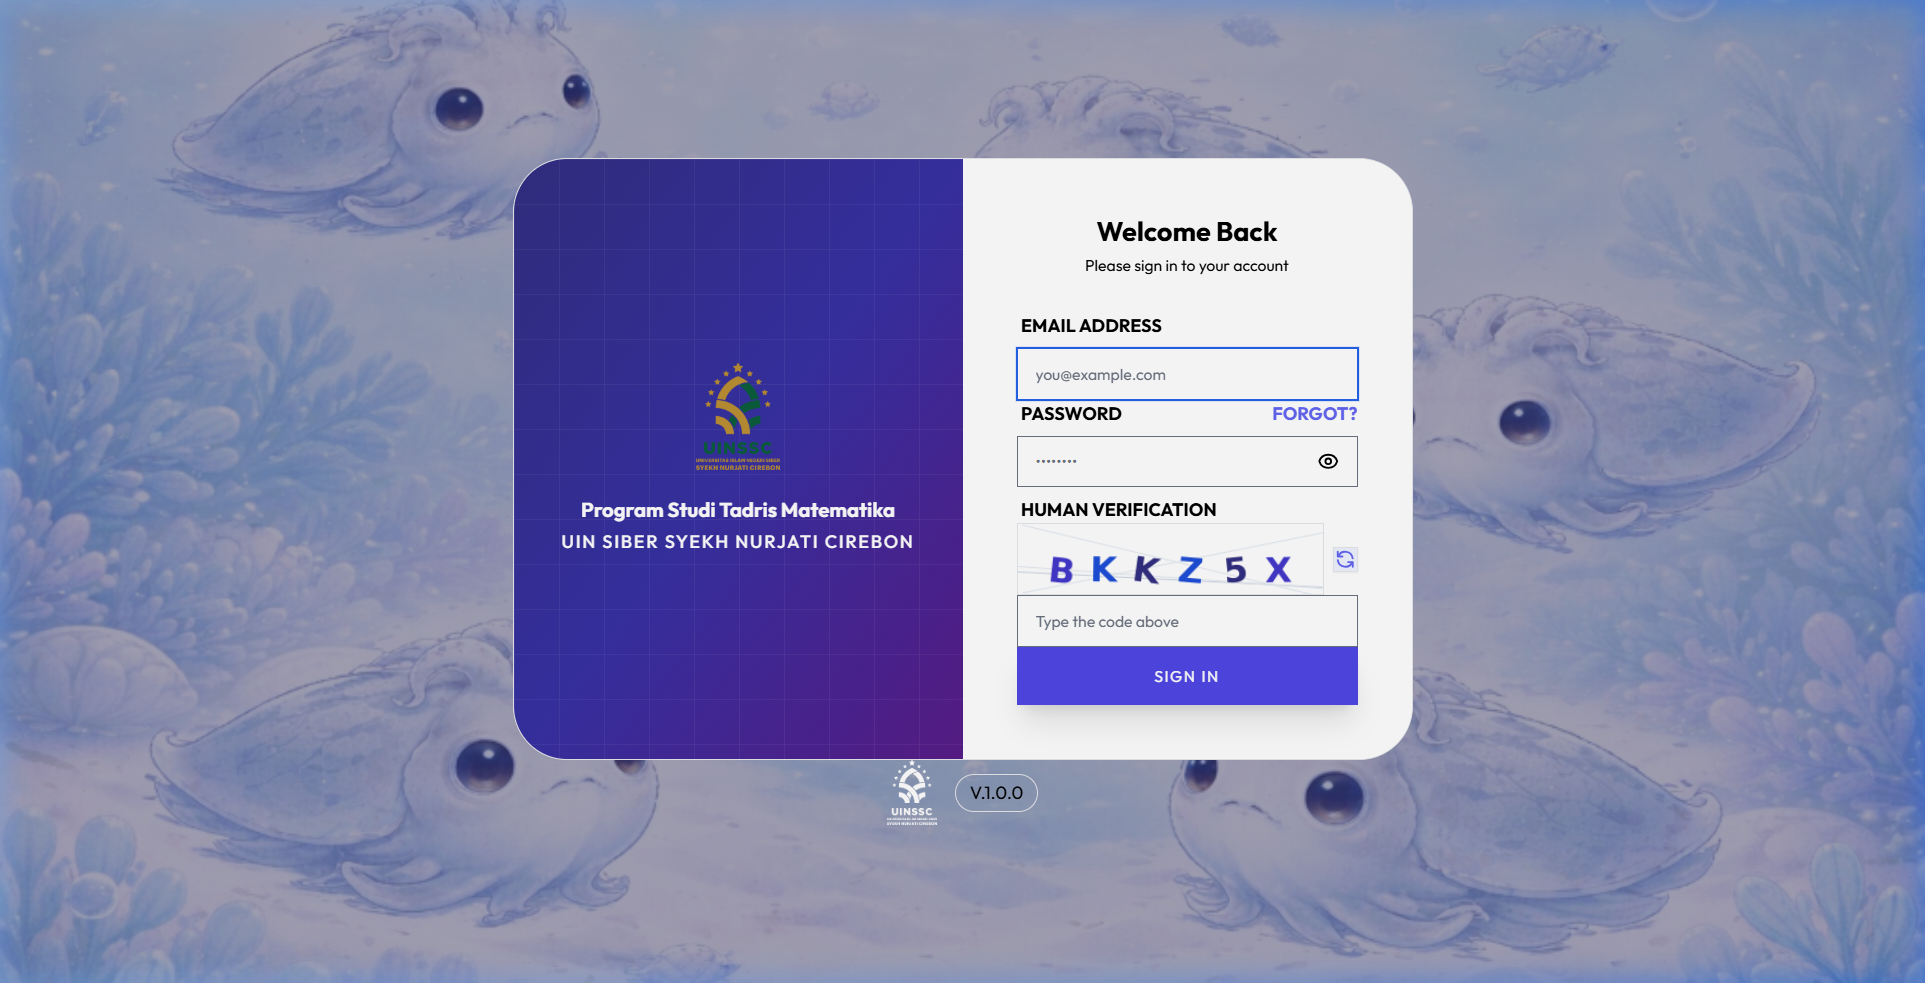
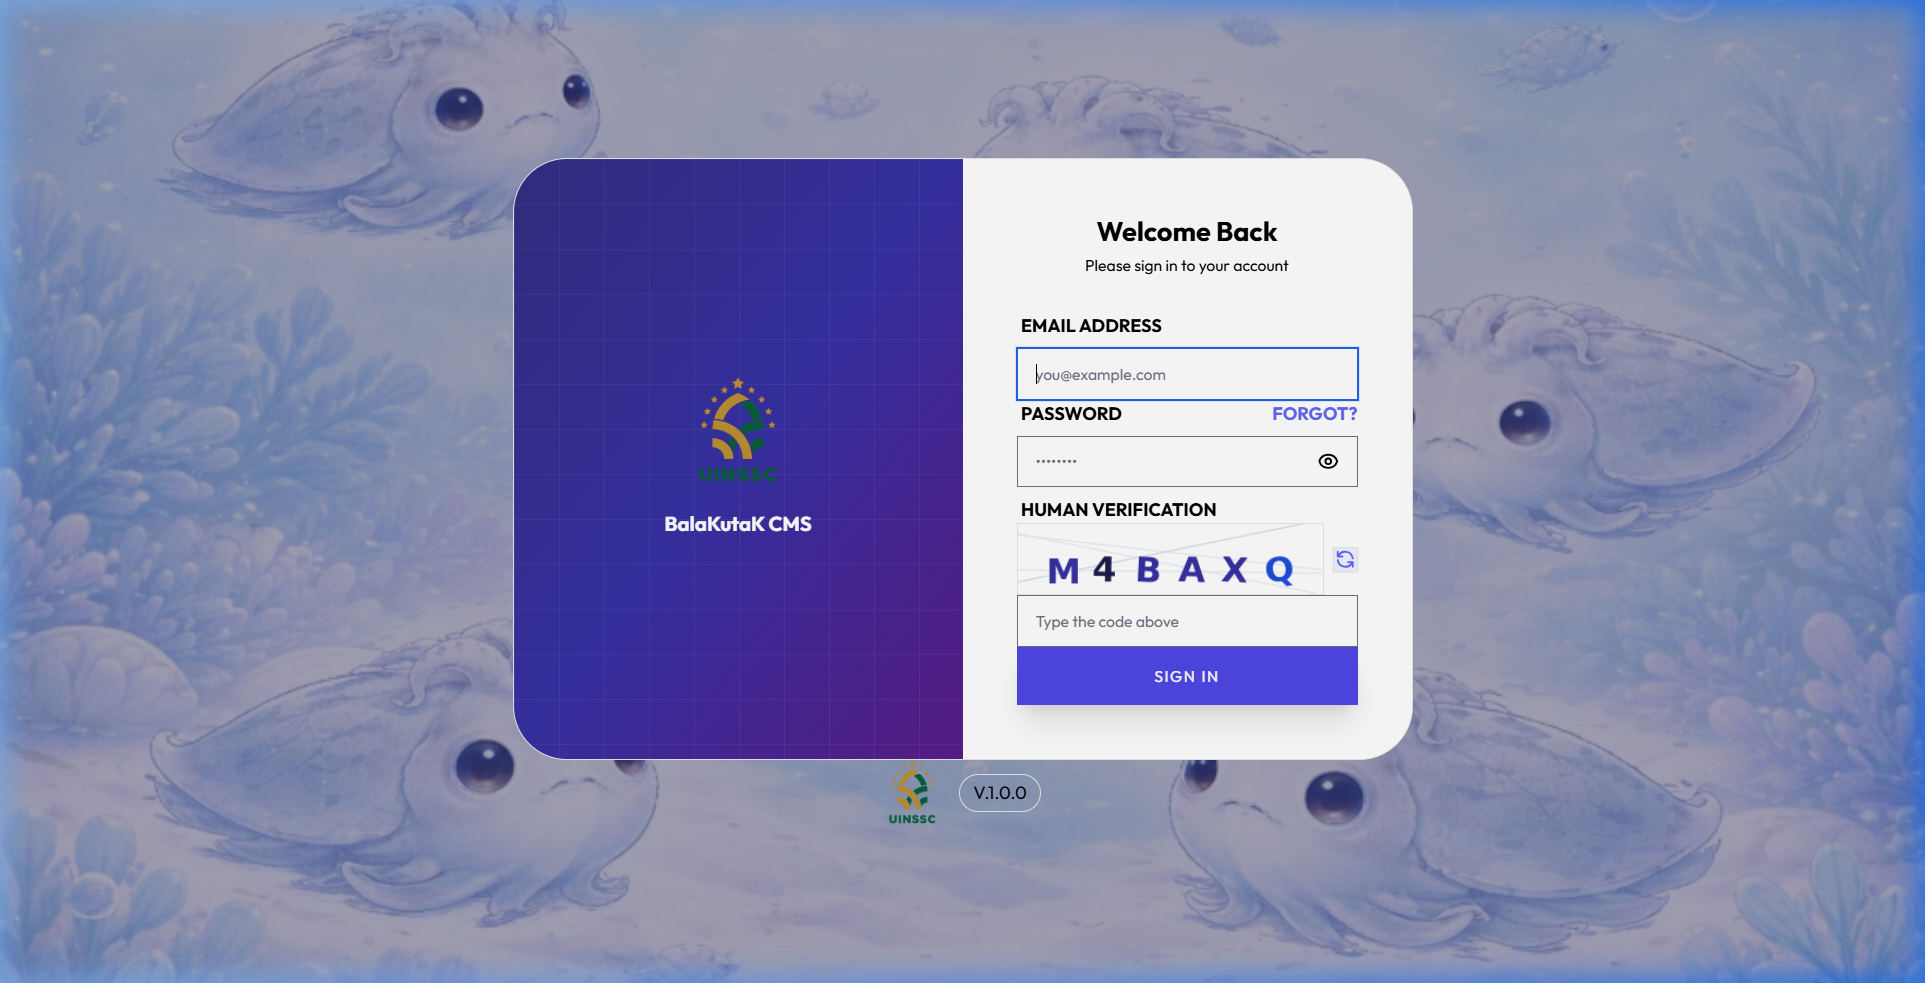
docs: added Menu Builder, Backup, and Theme features with screenshots

diff --git a/resources/views/admin/settings/group.blade.php b/resources/views/admin/settings/group.blade.php
@@ -66,8 +66,16 @@
                             <div class="form-group row">
                                 <label class="col-sm-3 col-form-label">Logo Website</label>
                                 <div class="col-sm-9">
-                                    @if(isset($settings['site_logo']))
-                                        <div class="mb-2"><img src="{{ asset('storage/' . $settings['site_logo']) }}" style="max-height: 50px;"></div>
+                                    @if(isset($settings['site_logo']) && !empty($settings['site_logo']))
+                                        <div class="mb-2 d-flex align-items-center">
+                                            <img src="{{ asset('storage/' . $settings['site_logo']) }}" style="max-height: 50px;" class="img-thumbnail mr-3">
+                                            <div class="custom-control custom-checkbox">
+                                                <input type="checkbox" name="delete_site_logo" class="custom-control-input" id="delete_site_logo" value="1">
+                                                <label class="custom-control-label text-danger small" for="delete_site_logo">
+                                                    <i class="fas fa-trash-alt mr-1"></i> Hapus Logo
+                                                </label>
+                                            </div>
+                                        </div>
                                     @endif
                                     <input type="file" name="site_logo" class="form-control-file">
                                 </div>
@@ -75,18 +83,36 @@
                             <div class="form-group row">
                                 <label class="col-sm-3 col-form-label">Logo Website (Versi Putih)</label>
                                 <div class="col-sm-9">
-                                    @if(isset($settings['site_logo_white']))
-                                        <div class="mb-2 bg-dark p-2 d-inline-block rounded"><img src="{{ asset('storage/' . $settings['site_logo_white']) }}" style="max-height: 50px;"></div>
+                                    @if(isset($settings['site_logo_white']) && !empty($settings['site_logo_white']))
+                                        <div class="mb-2 d-flex align-items-center">
+                                            <div class="bg-dark p-2 rounded mr-3 d-inline-block">
+                                                <img src="{{ asset('storage/' . $settings['site_logo_white']) }}" style="max-height: 50px;">
+                                            </div>
+                                            <div class="custom-control custom-checkbox">
+                                                <input type="checkbox" name="delete_site_logo_white" class="custom-control-input" id="delete_site_logo_white" value="1">
+                                                <label class="custom-control-label text-danger small" for="delete_site_logo_white">
+                                                    <i class="fas fa-trash-alt mr-1"></i> Hapus Logo Putih
+                                                </label>
+                                            </div>
+                                        </div>
                                     @endif
                                     <input type="file" name="site_logo_white" class="form-control-file">
-                                    <small class="text-muted">Gunakan untuk area dengan latar belakang gelap (seperti footer).</small>
+                                    <small class="text-muted d-block mt-1">Gunakan untuk area dengan latar belakang gelap (seperti footer).</small>
                                 </div>
                             </div>
                             <div class="form-group row">
                                 <label class="col-sm-3 col-form-label">Favicon</label>
                                 <div class="col-sm-9">
-                                    @if(isset($settings['site_favicon']))
-                                        <div class="mb-2"><img src="{{ asset('storage/' . $settings['site_favicon']) }}" style="max-height: 32px;"></div>
+                                    @if(isset($settings['site_favicon']) && !empty($settings['site_favicon']))
+                                        <div class="mb-2 d-flex align-items-center">
+                                            <img src="{{ asset('storage/' . $settings['site_favicon']) }}" style="max-height: 32px;" class="img-thumbnail mr-3">
+                                            <div class="custom-control custom-checkbox">
+                                                <input type="checkbox" name="delete_site_favicon" class="custom-control-input" id="delete_site_favicon" value="1">
+                                                <label class="custom-control-label text-danger small" for="delete_site_favicon">
+                                                    <i class="fas fa-trash-alt mr-1"></i> Hapus Favicon
+                                                </label>
+                                            </div>
+                                        </div>
                                     @endif
                                     <input type="file" name="site_favicon" class="form-control-file">
                                 </div>
@@ -117,9 +143,16 @@
                                 <label class="col-sm-3 col-form-label">Foto Ketua Institusi</label>
                                 <div class="col-sm-9">
                                     @if(!empty($settings['kaprodi_photo']))
-                                        <div class="mb-2">
-                                            <img src="{{ asset('storage/'.$settings['kaprodi_photo']) }}" alt="Foto Ketua" style="height:80px; width:80px; object-fit:cover; border-radius:50%; border:2px solid #dee2e6;">
-                                            <small class="d-block text-muted mt-1">Foto saat ini. Upload baru untuk mengganti.</small>
+                                        <div class="mb-2 d-flex align-items-center">
+                                            <div class="mr-3 text-center">
+                                                <img src="{{ asset('storage/'.$settings['kaprodi_photo']) }}" alt="Foto Ketua" style="height:80px; width:80px; object-fit:cover; border-radius:50%; border:2px solid #dee2e6;">
+                                            </div>
+                                            <div class="custom-control custom-checkbox">
+                                                <input type="checkbox" name="delete_kaprodi_photo" class="custom-control-input" id="delete_kaprodi_photo" value="1">
+                                                <label class="custom-control-label text-danger small" for="delete_kaprodi_photo">
+                                                    <i class="fas fa-trash-alt mr-1"></i> Hapus Foto
+                                                </label>
+                                            </div>
                                         </div>
                                     @endif
                                     <input type="file" name="kaprodi_photo" class="form-control-file" accept="image/*">
@@ -169,15 +202,22 @@
                                 <label class="col-sm-3 col-form-label">Sertifikat Akreditasi</label>
                                 <div class="col-sm-9">
                                     @if(!empty($settings['cert_accreditation']))
-                                        <div class="mb-2">
-                                            @if(Str::endsWith($settings['cert_accreditation'], ['.jpg','.jpeg','.png','.webp']))
-                                                <img src="{{ asset('storage/'.$settings['cert_accreditation']) }}" alt="Sertifikat Akreditasi" style="max-height:120px; border-radius:6px; border:1px solid #dee2e6;">
-                                            @else
-                                                <a href="{{ asset('storage/'.$settings['cert_accreditation']) }}" target="_blank" class="btn btn-sm btn-outline-primary">
-                                                    <i class="fas fa-file-pdf mr-1"></i> Lihat Sertifikat Saat Ini
-                                                </a>
-                                            @endif
-                                            <small class="d-block text-muted mt-1">File saat ini. Upload baru untuk mengganti.</small>
+                                        <div class="mb-2 d-flex align-items-center">
+                                            <div class="mr-3">
+                                                @if(Str::endsWith($settings['cert_accreditation'], ['.jpg','.jpeg','.png','.webp']))
+                                                    <img src="{{ asset('storage/'.$settings['cert_accreditation']) }}" alt="Sertifikat Akreditasi" style="max-height:80px; border-radius:6px; border:1px solid #dee2e6;">
+                                                @else
+                                                    <a href="{{ asset('storage/'.$settings['cert_accreditation']) }}" target="_blank" class="btn btn-sm btn-outline-primary">
+                                                        <i class="fas fa-file-pdf mr-1"></i> Lihat Sertifikat
+                                                    </a>
+                                                @endif
+                                            </div>
+                                            <div class="custom-control custom-checkbox">
+                                                <input type="checkbox" name="delete_cert_accreditation" class="custom-control-input" id="delete_cert_accreditation" value="1">
+                                                <label class="custom-control-label text-danger small" for="delete_cert_accreditation">
+                                                    <i class="fas fa-trash-alt mr-1"></i> Hapus File
+                                                </label>
+                                            </div>
                                         </div>
                                     @endif
                                     <input type="file" name="cert_accreditation" class="form-control-file" accept="image/*,.pdf">

diff --git a/app/Http/Controllers/Admin/SettingController.php b/app/Http/Controllers/Admin/SettingController.php
@@ -61,8 +61,29 @@ class SettingController extends Controller
 
         // Process all other regular settings (skip cert_other_* arrays)
         $skip = ['_token', 'group', 'cert_other_name', 'cert_other_file', 'cert_other_existing'];
+        
+        // Handle specific file deletions
+        foreach ($request->all() as $reqKey => $reqValue) {
+            if (str_starts_with($reqKey, 'delete_') && $reqValue == '1') {
+                $settingKey = str_replace('delete_', '', $reqKey);
+                $oldPath = Setting::get($settingKey);
+                if ($oldPath && Storage::disk('public')->exists($oldPath)) {
+                    Storage::disk('public')->delete($oldPath);
+                }
+                Setting::set($settingKey, null);
+                $skip[] = $reqKey; // Skip this from the main loop
+                $skip[] = $settingKey; // Also skip the original key if it's in the request (it shouldn't be for files, but just in case)
+            }
+        }
+
         foreach ($request->except($skip) as $key => $value) {
             if ($request->hasFile($key)) {
+                // Delete old file if exists
+                $oldPath = Setting::get($key);
+                if ($oldPath && Storage::disk('public')->exists($oldPath)) {
+                    Storage::disk('public')->delete($oldPath);
+                }
+                
                 $path = $request->file($key)->store('settings', 'public');
                 Setting::set($key, $path);
             }

diff --git a/README.md b/README.md
@@ -11,7 +11,9 @@
 ## ✨ Fitur Utama (Premium Features)
 
 *   **💎 Premium Immersive UI**: Antarmuka modern dengan efek gradasi sinematik, animasi AOS, dan elemen dekoratif yang mewah.
-*   **🎨 Dynamic Theme Engine**: Mendukung pergantian tema secara instan (tersedia tema *Navy Blue* & *Green Gold*).
+*   **🎨 Dynamic Theme Engine**: Mendukung pergantian tema secara instan dengan berbagai pilihan palet warna (NavyBlue, GreenGold, dll).
+*   **🛠 Drag & Drop Menu Builder**: Memudahkan pengelolaan navigasi website secara visual dan dinamis.
+*   **💾 Integrated Backup System**: Fitur pencadangan database dan file aplikasi secara otomatis maupun manual untuk keamanan data.
 *   **🤝 Sponsor Management**: Modul khusus untuk mengelola logotipe mitra dan sponsor yang terintegrasi di footer.
 *   **🎓 Academic Suite**: Pengelolaan lengkap untuk kalender akademik, layanan kurikulum, profil dosen, dan agenda kegiatan.
 *   **🛡 Secure Admin Panel**: Didukung oleh AdminLTE 3 dengan sistem Role & Permission yang ketat (Super Admin & Admin).
@@ -38,6 +40,15 @@ Berikut adalah beberapa tampilan dari BalaKutaK CMS:
 
 ### 🖼 Galeri Media
 ![Admin Gallery](docs/screenshots/admin-gallery.png)
+
+### 🛠 Menu Builder
+![Admin Menus](docs/screenshots/admin-menus.png)
+
+### 💾 Sistem Backup
+![Admin Backups](docs/screenshots/admin-backups.png)
+
+### 🎨 Pengaturan Tema
+![Admin Themes](docs/screenshots/admin-themes.png)
 
 ---
 
